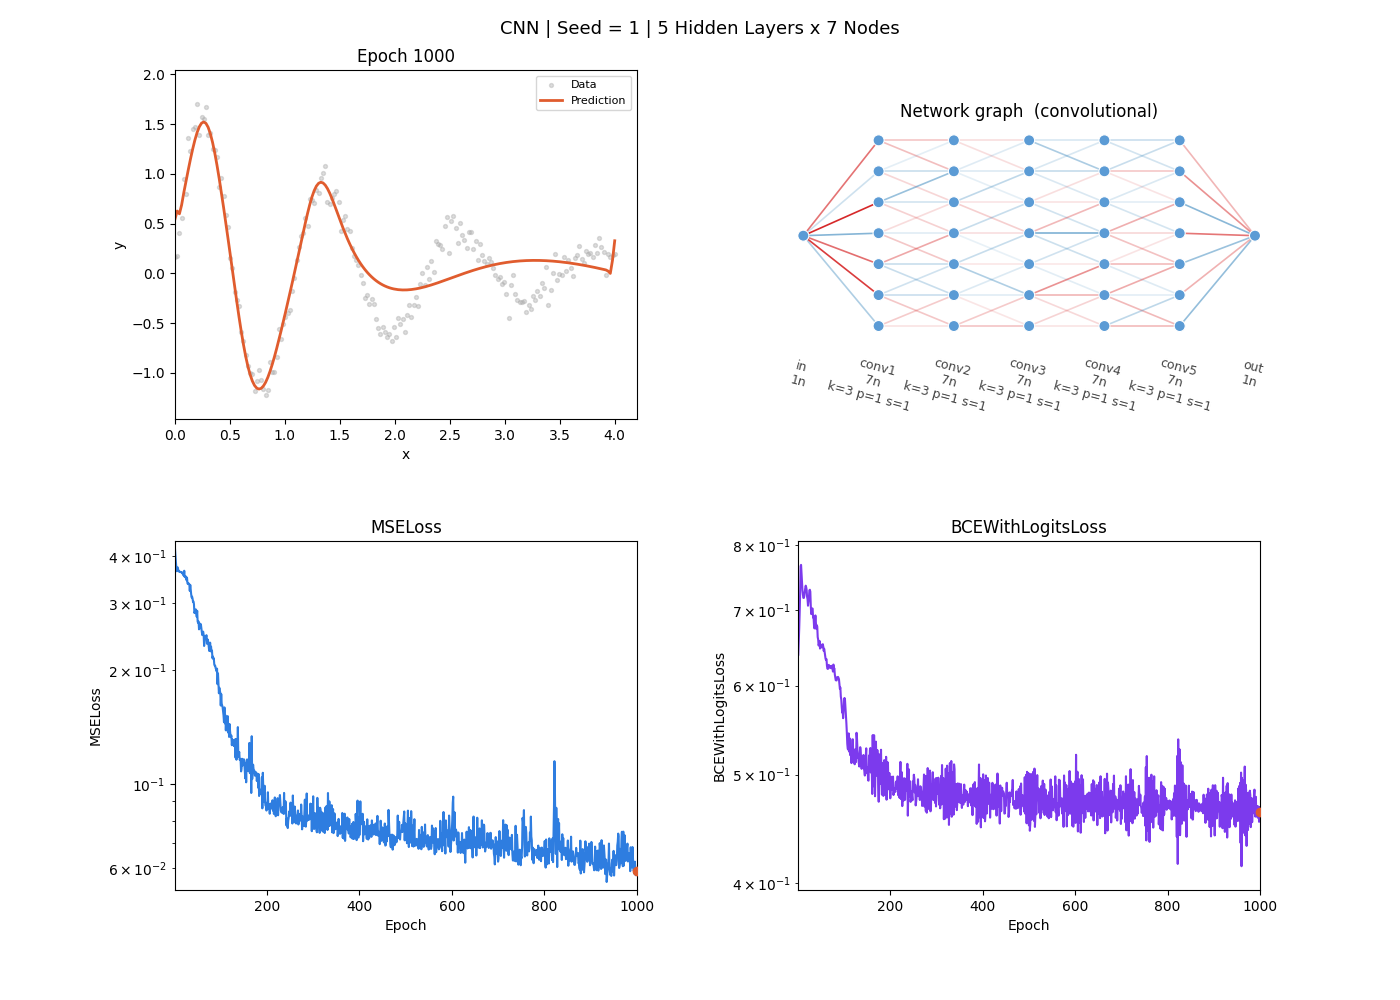
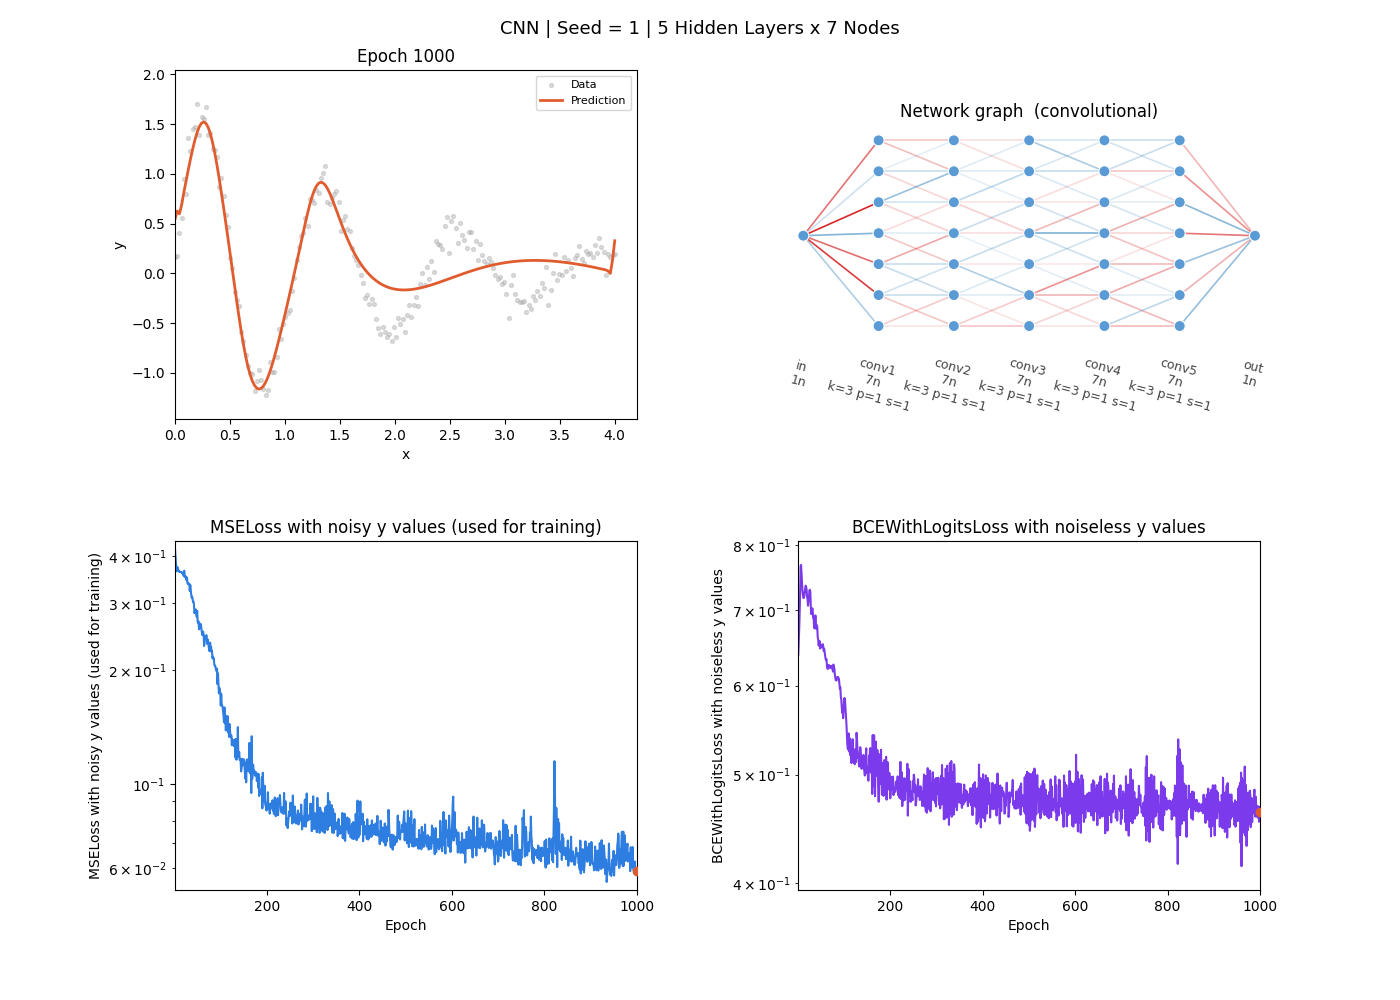
Updated README.md and animation.py to show the title of loss plots with more explanation.

diff --git a/utils/animation.py b/utils/animation.py
@@ -256,7 +256,7 @@ def make_animation(
     edge_lines = [line for line, *_ in edge_artists]
     
     # Loss panels
-    for ax, hist, color, name in ((ax_loss,  loss_history,  loss_color,  type(p.loss_function).__name__), (ax_loss2, loss2_history, loss2_color, type(p.loss_function2).__name__)):
+    for ax, hist, color, name in ((ax_loss,  loss_history,  loss_color,  type(p.loss_function).__name__+" with noisy y values (used for training)"), (ax_loss2, loss2_history, loss2_color, type(p.loss_function2).__name__+" with noiseless y values")):
         ax.set_xlim(1, epoch_vals[-1])
         ax.set_ylim(max(min(hist) / 1.05, 1e-10), max(hist) * 1.05)
         ax.set_yscale("log")

diff --git a/README.md b/README.md
@@ -45,12 +45,12 @@ to use you can clone this repository and install the packages needed in requirem
 #### The input data formula: $2e^{-x}(\sin(5x)+x\cos(5x))$
 | Dense Configuration | Convolutional Configuration |
 | :-------: | :-------: |
-| ![densenet](https://github.com/navidgolkar/curve-fitting-nn/blob/main/saves/Mish/FCNN_7x7_1.gif) | ![convnet](https://github.com/navidgolkar/curve-fitting-nn/blob/main/saves/Mish/CNN_7x7_1.gif) |
-| ![denseresnet](https://github.com/navidgolkar/curve-fitting-nn/blob/main/saves/Mish/DenseResNet_7x7_1.gif) | ![convresnet](https://github.com/navidgolkar/curve-fitting-nn/blob/main/saves/Mish/ConvResNet_7x7_1.gif) |
+| ![densenet](/saves/Mish/FCNN_7x7_1.gif) | ![convnet](/saves/Mish/CNN_7x7_1.gif) |
+| ![denseresnet](/saves/Mish/DenseResNet_7x7_1.gif) | ![convresnet](/saves/Mish/ConvResNet_7x7_1.gif) |
 
 | Custom Configuration |
 | :------------------: |
-| ![customnet](https://github.com/navidgolkar/curve-fitting-nn/blob/main/saves/Mish/CustomNet_7x7_1.gif) |
+| ![customnet](/saves/Mish/CustomNet_7x7_1.gif) |
 
 ## Observations
 - FCNN and DenseResNet change more uniformly through epochs because of their dense configuration, while CNN, ConvResNet and CustomNet change very "noisily"
